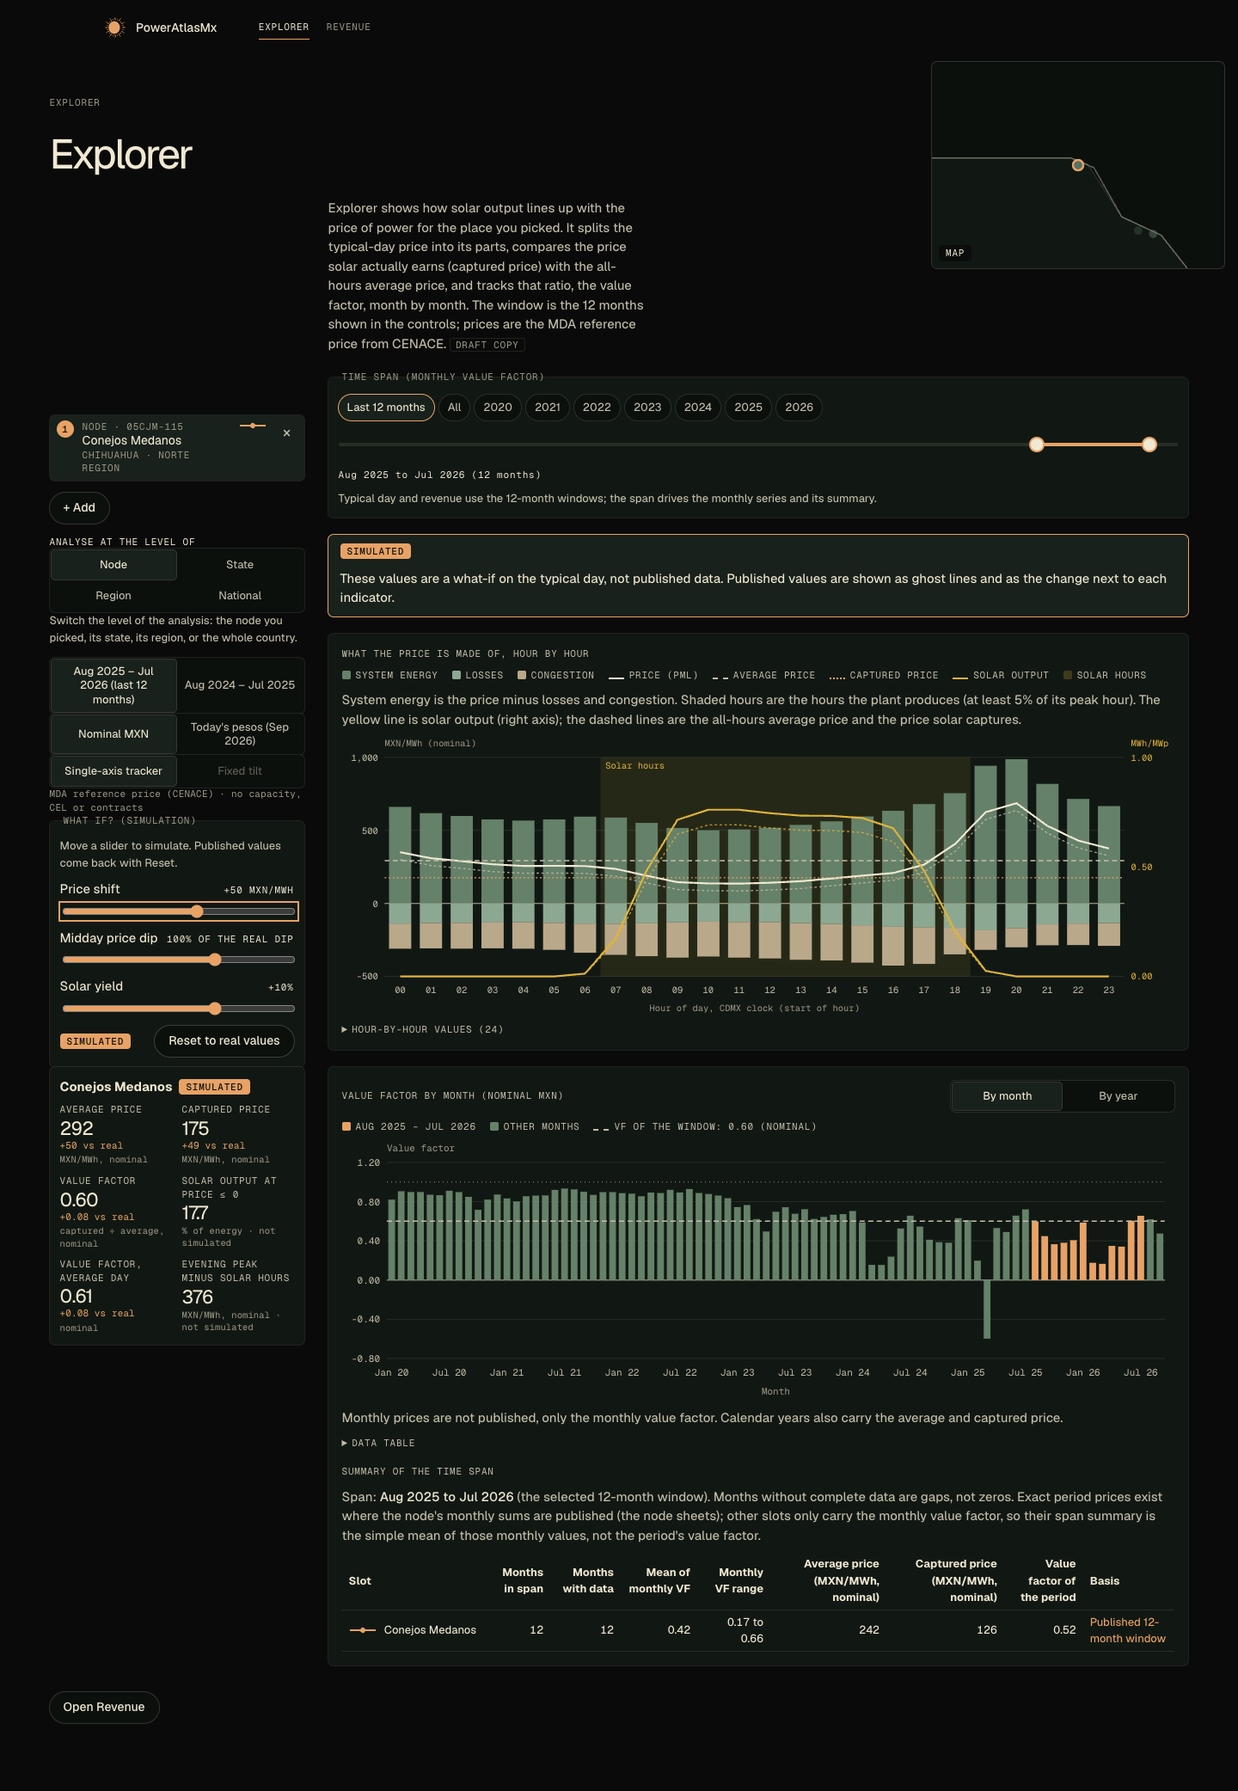
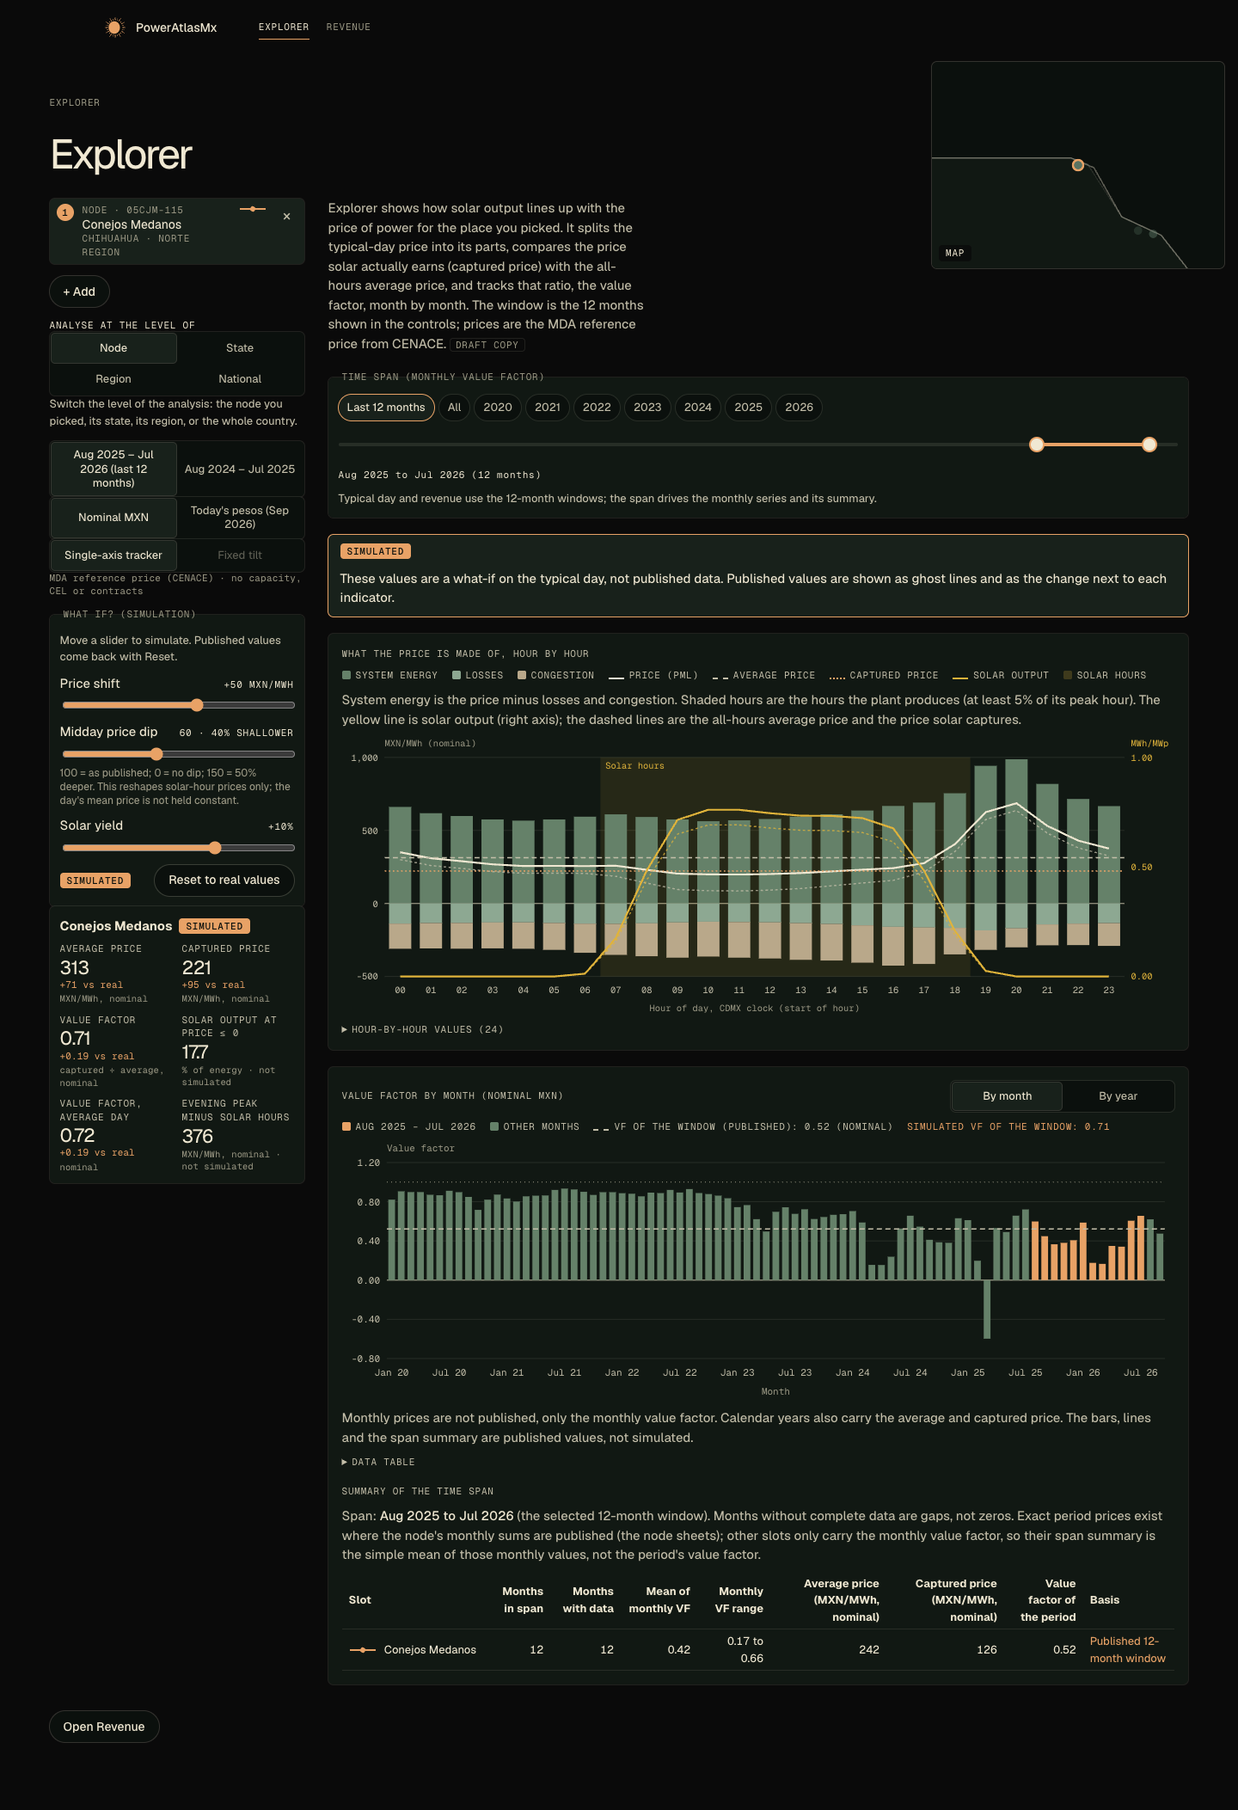
v2: m9 fixes (published labels, n/a under negative prices, dip wording, clamped span, notes)

diff --git a/web/v2/assets/js/series-card.js b/web/v2/assets/js/series-card.js
@@ -8,6 +8,7 @@ import { legendHTML, esc, nameOf } from './compare-ui.js';
 import { segment } from './controls.js';
 import { COPY } from './copy.js';
 import { inSpan } from './span-data.js';
+import { isNeutral } from './query-extras.js';
 
 const SAND = 'var(--s1)', MUTED = 'var(--c-energy)';
 
@@ -25,17 +26,18 @@ export function paintSeries(root, { entries, shell, winId, view, onView }) {
   const ok = entries.filter((e) => e.series);
   segment(q('#sr-view'), [['months', 'By month'], ['years', 'By year']], view, onView);
   q('#sr-title').textContent = view === 'months' ? `Value factor by month${span ? ` (${span.from} to ${span.to})` : ''} (nominal MXN)` : `Value factor, average and captured price by calendar year${real ? " (today's pesos)" : ' (nominal MXN)'}`;
-  q('#sr-note').textContent = COPY.seriesNote;
+  const sim = !isNeutral(shell.store.scenario);
+  q('#sr-note').textContent = COPY.seriesNote + (sim ? ' The bars, lines and the span summary are published values, not simulated.' : '');
   const px = q('#sr-px'); px.hidden = view !== 'years';
   if (!ok.length) { q('#sr-vf').innerHTML = '<p class="xp-text">No series for this selection.</p>'; q('#sr-table').innerHTML = ''; return; }
   const multi = entries.length > 1;
   if (view === 'months') {
     const allMonths = ok[0].series.months, keep = allMonths.map((m) => inSpan(m, span)), months = allMonths.filter((_, i) => keep[i]), every = thin(months.length, chartWidth(q('#sr-vf')), 56, 6);
     if (!multi) {
-      const e = ok[0], pb = priceBasis(e.rec, real);
+      const e = ok[0], pb = priceBasis(e.real || e.rec, real), sb = e.real ? priceBasis(e.rec, real) : null; // the bars are published: so is the line
       const vfs = e.series.vf.filter((_, i) => keep[i]);
       const bars = months.map((m, i) => { const inW = m >= w.desde && m <= w.hasta, v = vfs[i]; return { v, label: mesCorto(m), color: inW ? SAND : MUTED, tip: `${mesCorto(m)}: ${v === null ? 'no data' : num(v, 2)}${inW ? ' (in window)' : ''}` }; });
-      q('#sr-leg').innerHTML = `<span><i style="background:${SAND}"></i>${esc(w.label)}</span><span><i style="background:${MUTED}"></i>Other months</span><span><i class="dash"></i>VF of the window: ${num(pb.vf, 2)}${pb.real ? " (today's pesos)" : ' (nominal)'}</span>`;
+      q('#sr-leg').innerHTML = `<span><i style="background:${SAND}"></i>${esc(w.label)}</span><span><i style="background:${MUTED}"></i>Other months</span><span><i class="dash"></i>VF of the window${sim ? ' (published)' : ''}: ${num(pb.vf, 2)}${pb.real ? " (today's pesos)" : ' (nominal)'}</span>${sb ? `<span class="exact">Simulated VF of the window: ${sb.vf === null ? 'n/a (price ≤ 0)' : num(sb.vf, 2)}</span>` : ''}`;
       renderChart(q('#sr-vf'), () => barChart({ bars, hline: { v: pb.vf, label: `Window ${num(pb.vf, 2)}` }, refs: [1], scale: vfAxis(bars.map((b) => b.v).concat([pb.vf])), H: 300, xEvery: every, aria: 'Value factor by month', ytitle: 'Value factor', xtitle: 'Month' }));
     } else {
       q('#sr-leg').innerHTML = legendHTML(entries, shell);
@@ -47,6 +49,7 @@ export function paintSeries(root, { entries, shell, winId, view, onView }) {
   }
   const ya0 = yearAxis(entries, real), yKeep = ya0.years.map((y) => !span || (`${y}-01` >= span.from && `${y}-12` <= span.to));
   const sel = yKeep.some(Boolean) ? yKeep : ya0.years.map(() => true);
+  if (span && !yKeep.some(Boolean)) q('#sr-note').textContent = `No full calendar year in this span; showing all years. ${q('#sr-note').textContent}`;
   const ya = { years: ya0.years.filter((_, i) => sel[i]), vals: ya0.vals.map((v) => v.filter((_, i) => sel[i])) };
   q('#sr-leg').innerHTML = multi ? legendHTML(entries, shell) : '<span><i style="background:var(--s1)"></i>Value factor</span>';
   const vser = entries.map((e, k) => ({ vals: ya.vals[k], label: nameOf(shell, e) }));

diff --git a/web/v2/assets/js/indicators.js b/web/v2/assets/js/indicators.js
@@ -4,7 +4,7 @@ import { compareRows } from './compare-data.js';
 import { swatchSVG } from './series-style.js';
 import { esc, nameOf, slotNotice } from './compare-ui.js';
 
-const mil = (v) => num(v / 1e6, 2);
+const mil = (v) => (v === null || v === undefined ? '—' : num(v / 1e6, 2));
 
 /** items [label, text, unit] for one ok row. view = 'explorer' | 'revenue'. */
 export function indicatorItems(row, view, real, base = null) {
@@ -14,7 +14,7 @@ export function indicatorItems(row, view, real, base = null) {
     ['Value factor', t.vf.text, `captured ÷ average, ${pesos}`, d(t.vf.value, base && base.tiles.vf.value, 2)]];
   const sim = base ? ' · not simulated' : '';
   const rest = [['Solar output at price ≤ 0', t.z.text, `% of energy${sim}`], ['Value factor, average day', t.vfDay.text, 'nominal', d(t.vfDay.value, base && base.tiles.vfDay.value, 2)]];
-  if (view === 'revenue') return [['Revenue per MWp per year', mil(r.total), `M MXN, ${pesos}`, base ? d(r.total / 1e6, base.rev.total / 1e6, 2) : ''], ['Shortcut overstates by', r.over === null ? '—' : num(r.over, 0), '%', ''], ...prices, ...rest];
+  if (view === 'revenue') return [['Revenue per MWp per year', mil(r.total), `M MXN, ${pesos}`, base && r.total !== null && base.rev.total !== null ? d(r.total / 1e6, base.rev.total / 1e6, 2) : ''], ['Shortcut overstates by', r.over === null ? '—' : num(r.over, 0), '%', ''], ...prices, ...rest];
   return [...prices, ...rest, ['Evening peak minus solar hours', t.spread.text, `MXN/MWh, nominal${sim}`, '']];
 }
 
@@ -22,10 +22,13 @@ export function indicatorsHTML(entries, shell, view) {
   const real = shell.store.real, rows = compareRows(entries, real), multi = entries.length > 1;
   const base = compareRows(entries.map((e) => (e.real ? { ...e, rec: e.real } : e)), real);
   return rows.map((row, k) => {
-    const head = `<div class="ind-head">${multi ? swatchSVG(k) : ''}<b>${esc(nameOf(shell, entries[k]))}</b>${entries[k].real ? '<span class="badge">Simulated</span>' : ''}</div>`;
+    const e = entries[k];
+    const mark = e.noBaseline ? '<span class="badge off">Not simulated (no baseline)</span>' : e.real ? '<span class="badge">Simulated</span>' : '';
+    const head = `<div class="ind-head">${multi ? swatchSVG(k) : ''}<b>${esc(nameOf(shell, e))}</b>${mark}</div>`;
     if (!row.ok) return `<section class="ind">${head}<p class="xp-text">${esc(slotNotice(entries[k]))}</p></section>`;
     const sim = !!entries[k].real;
-    const items = indicatorItems(row, view, real, sim && base[k].ok ? base[k] : null).map(([l, v, u, dl]) => `<div class="ind-item"><span class="mono">${esc(l)}</span><strong>${v}</strong>${dl ? `<span class="mono delta">${esc(dl)} vs real</span>` : ''}<span class="mono u">${esc(u)}</span></div>`).join('');
-    return `<section class="ind">${head}${row.partial ? `<p class="xp-warn-inline">${esc(row.partial)}</p>` : ''}<div class="ind-grid">${items}</div></section>`;
+    const na = e.rec && e.rec.simNA;
+    const items = indicatorItems(row, view, real, sim && base[k].ok ? base[k] : null).map(([l, v, u, dl]) => (na && v === '—' ? [l, 'n/a', 'price ≤ 0 under this scenario', ''] : [l, v, u, dl])).map(([l, v, u, dl]) => `<div class="ind-item"><span class="mono">${esc(l)}</span><strong>${v}</strong>${dl ? `<span class="mono delta">${esc(dl)} vs real</span>` : ''}<span class="mono u">${esc(u)}</span></div>`).join('');
+    return `<section class="ind">${head}${row.partial ? `<p class="xp-warn-inline">${esc(row.partial)}</p>` : ''}${na ? '<p class="xp-text">Prices are shown, and are zero or negative under this scenario; the value factor and revenue are not meaningful.</p>' : ''}<div class="ind-grid">${items}</div></section>`;
   }).join('');
 }

diff --git a/web/v2/assets/js/scenario-panel.js b/web/v2/assets/js/scenario-panel.js
@@ -4,7 +4,9 @@ import { announce } from './live.js';
 
 const DEFS = [
   { k: 'price', label: 'Price shift', unit: 'MXN/MWh', step: 10, show: (v) => `${v > 0 ? '+' : v < 0 ? '−' : ''}${Math.abs(v)} MXN/MWh`, text: (v) => (v === 0 ? 'no shift' : `${v > 0 ? 'plus' : 'minus'} ${Math.abs(v)} pesos per megawatt hour`) },
-  { k: 'dip', label: 'Midday price dip', unit: '% of today\'s dip', step: 5, show: (v) => `${v}% of the real dip`, text: (v) => `${v} percent of the real midday dip` },
+  { k: 'dip', label: 'Midday price dip', unit: '', step: 5, show: (v) => (v === 100 ? '100 · as published' : v === 0 ? '0 · no dip' : v > 100 ? `${v} · ${v - 100}% deeper` : `${v} · ${100 - v}% shallower`),
+    text: (v) => (v === 100 ? 'as published' : v === 0 ? 'no dip' : v > 100 ? `${v - 100} percent deeper than published` : `${100 - v} percent shallower than published`),
+    help: '100 = as published; 0 = no dip; 150 = 50% deeper. This reshapes solar-hour prices only; the day\'s mean price is not held constant.' },
   { k: 'yield', label: 'Solar yield', unit: '%', step: 1, show: (v) => `${v > 0 ? '+' : v < 0 ? '−' : ''}${Math.abs(v)}%`, text: (v) => (v === 0 ? 'as modelled' : `${v > 0 ? 'plus' : 'minus'} ${Math.abs(v)} percent`) },
 ];
 
@@ -13,7 +15,7 @@ export function mountScenarioPanel(el, store) {
   el.innerHTML = `<fieldset class="scn"><legend class="mono">What if? (simulation)</legend>
     <p class="hint">Move a slider to simulate. Published values come back with Reset.</p>
     ${DEFS.map((d) => `<label class="scn-row" for="sc-${d.k}"><span>${d.label}</span><output id="o-${d.k}" class="mono"></output>
-      <input type="range" id="sc-${d.k}" min="${SCENARIO_LIMITS[d.k][0]}" max="${SCENARIO_LIMITS[d.k][1]}" step="${d.step}"></label>`).join('')}
+      <input type="range" id="sc-${d.k}" min="${SCENARIO_LIMITS[d.k][0]}" max="${SCENARIO_LIMITS[d.k][1]}" step="${d.step}"${d.help ? ` aria-describedby="sc-${d.k}-help"` : ''}>${d.help ? `<small class="scn-help" id="sc-${d.k}-help">${d.help}</small>` : ''}</label>`).join('')}
     <div class="scn-actions"><span class="badge" id="scn-badge" hidden>Simulated</span><button type="button" class="btn btn-ghost btn-sm" id="scn-reset">Reset to real values</button></div>
     <p class="sr" id="scn-live" role="status" aria-live="polite"></p></fieldset>`;
   const q = (s) => el.querySelector(s), live = q('#scn-live');

diff --git a/web/v2/assets/js/revenue.js b/web/v2/assets/js/revenue.js
@@ -1,5 +1,6 @@
 // Revenue: PML decomposition by hour (same as Explorer), production x price by hour, revenue per MWp per year, series, comparison table.
 import { mountView } from './view-base.js';
+import { isNeutral } from './query-extras.js';
 import { decompSectionHTML, drawDecomp } from './decomposition.js';
 import { seriesCardHTML, paintSeries } from './series-card.js';
 import { compareRows, columnLabels } from './compare-data.js';
@@ -8,7 +9,7 @@ import { num } from '../../../assets/js/format.js';
 import { pairChart, lineChart, renderChart } from './svg-charts.js';
 import { tableHTML, esc, legendHTML, nameOf } from './compare-ui.js';
 
-const mil = (v) => num(v / 1e6, 2);
+const mil = (v) => (v === null || v === undefined ? 'n/a' : num(v / 1e6, 2));
 const hh = (i) => String(i).padStart(2, '0');
 
 function revenueCardHTML(entries) {
@@ -26,9 +27,9 @@ export function mountRevenue(host, { shell, side }) {
       mainHTML: ({ entries }) => `${decompSectionHTML(entries, shell)}${revenueCardHTML(entries)}${seriesCardHTML()}${entries.length > 1 ? '<section class="xp-card" id="cmp-table"></section>' : ''}`,
       draw(root, { entries, winId, real, w }, { repaint }) {
         drawDecomp(root, entries);
-        const rows = compareRows(entries, real), L = columnLabels(real), pesos = real ? "today's pesos" : 'nominal';
+        const rows = compareRows(entries, real), L = columnLabels(real, !isNeutral(shell.store.scenario)), pesos = real ? "today's pesos" : 'nominal';
         const realRows = compareRows(entries.map((e) => (e.real ? { ...e, rec: e.real } : e)), real);
-        const gapText = (r) => (r.rev.gap === null ? '' : ` Typical day × 365 is ${num(Math.abs(r.rev.gap), 1)}% ${r.rev.gap >= 0 ? 'above' : 'below'} the published yearly revenue (nominal).`);
+        const gapText = (r) => (r.rev.gap === null || r.rev.total === null ? '' : ` Typical day × 365 is ${num(Math.abs(r.rev.gap), 1)}% ${r.rev.gap >= 0 ? 'above' : 'below'} the published yearly revenue (nominal).`);
         const labels = Array.from({ length: 24 }, (_, i) => hh(i));
         const hours = root.querySelector('#rv-hours');
         if (entries.length === 1) {

diff --git a/web/v2/assets/js/scenario.js b/web/v2/assets/js/scenario.js
@@ -45,10 +45,17 @@ export function scenarioRatios(hours, sc) {
 
 /** record with the scenario applied (same shape as explorer-data records). Returns the same object when neutral. */
 export function scenarioRecord(rec, sc) {
-  if (!rec || rec.missing || isNeutral(sc) || !rec.hours) return { rec, ratios: scenarioRatios(null, null) };
+  if (!rec || rec.missing || isNeutral(sc)) return { rec, ratios: scenarioRatios(null, null) };
+  if (!rec.hours) return { rec, ratios: { rB: 1, rC: 1, rVF: 1, rS: 1, yieldK: 1, ok: false } }; // no hourly profile: nothing to simulate
   const r = scenarioRatios(rec.hours, sc);
   if (!r.ok) return { rec, ratios: r };
   const mul = (v, k) => (v === null || v === undefined ? v : v * k);
+  // a price that is zero or negative under the scenario makes the ratios (VF, revenue) meaningless: keep the prices, drop the rest
+  if (!(rec.base * r.rB > 0) || !(rec.cap * r.rC > 0)) {
+    return { rec: { ...rec, simulated: true, simNA: 'n/a: price ≤ 0 under this scenario', hours: applyScenario(rec.hours, sc),
+      base: mul(rec.base, r.rB), baseReal: mul(rec.baseReal, r.rB), cap: mul(rec.cap, r.rC), capReal: mul(rec.capReal, r.rC),
+      vf: null, vfDay: null, ingreso: null, ingresoReal: null, atajo: null, yf: mul(rec.yf, r.yieldK) }, ratios: { ...r, na: true } };
+  }
   const out = {
     ...rec, simulated: true, hours: applyScenario(rec.hours, sc),
     base: mul(rec.base, r.rB), baseReal: mul(rec.baseReal, r.rB), cap: mul(rec.cap, r.rC), capReal: mul(rec.capReal, r.rC),
@@ -65,6 +72,7 @@ export function scenarioEntries(entries, sc) {
   return entries.map((e) => {
     if (e.error || e.missing || !e.rec) return e;
     const { rec, ratios } = scenarioRecord(e.rec, sc);
-    return rec === e.rec ? e : { ...e, rec, real: e.rec, ratios };
+    if (rec === e.rec) return { ...e, noBaseline: !ratios.ok }; // shown as published, and said so
+    return { ...e, rec, real: e.rec, ratios };
   });
 }

diff --git a/web/v2/assets/js/explorer.js b/web/v2/assets/js/explorer.js
@@ -1,6 +1,7 @@
 // Explorer: PML decomposition by hour (prominent), value factor over time (month / year), comparison table for several slots.
 import { WIN } from '../../../assets/js/names.js';
 import { mountView } from './view-base.js';
+import { isNeutral } from './query-extras.js';
 import { decompSectionHTML, drawDecomp } from './decomposition.js';
 import { seriesCardHTML, paintSeries } from './series-card.js';
 import { compareRows } from './compare-data.js';
@@ -17,7 +18,7 @@ export function mountExplorer(host, { shell, side }) {
         drawDecomp(root, entries);
         paintSeries(root, { entries, shell, winId, view: seriesView, onView: (v) => { seriesView = v; repaint(); } });
         if (entries.length > 1) {
-          const L = columnLabels(real), rows = compareRows(entries, real);
+          const L = columnLabels(real, !isNeutral(shell.store.scenario)), rows = compareRows(entries, real);
           const cols = [{ h: L.base, get: (r) => r.tiles.base.text }, { h: L.cap, get: (r) => r.tiles.cap.text }, { h: L.vf, get: (r) => r.tiles.vf.text }, { h: L.z, get: (r) => r.tiles.z.text }, { h: L.vfDay, get: (r) => r.tiles.vfDay.text }];
           root.querySelector('#cmp-table').innerHTML = `<h2 class="mono">${esc(L.heading(w.label))}</h2>${tableHTML(rows, entries, shell, cols)}`;
         }

diff --git a/web/v2/assets/js/route-logic.js b/web/v2/assets/js/route-logic.js
@@ -26,7 +26,7 @@ export function resolveHash(hash, valid = null, current = [], currentReal = fals
   // span and scenario follow the same rule as the basis: explicit entry -> exactly what the URL says; bare hash -> inherit
   const cur = currentExtras || {};
   const inherit = path === '/' || !raw;
-  const span = path === '/' ? cur.span || null : params.has('from') || params.has('to') ? parseSpan(params.get('from'), params.get('to')) : inherit ? cur.span || null : null;
+  const span = path === '/' ? cur.span || null : params.has('from') || params.has('to') ? parseSpan(params.get('from'), params.get('to'), valid && valid.months) : inherit ? cur.span || null : null;
   const sc = path === '/' ? cur.sc || null : params.has('sc') ? parseScenario(params.get('sc')) : inherit ? cur.sc || null : null;
   return { path, list, real, span, sc, hadSel: !!raw, hash: hrefFor(path, list, real, { span, sc }) };
 }

diff --git a/web/v2/assets/js/compare-data.js b/web/v2/assets/js/compare-data.js
@@ -40,12 +40,12 @@ export function yearAxis(entries, real = false) {
 }
 
 /** table column headings per price basis (average/captured/VF follow the toggle; spread, <= 0 share and average-day VF are nominal figures). */
-export function columnLabels(real) {
+export function columnLabels(real, sim = false) {
   const b = real ? "today's pesos" : 'nominal';
   return {
     heading: (win) => `Comparison, ${win} · prices in ${b}`,
     base: `Average price, MXN/MWh (${b})`, cap: `Captured price, MXN/MWh (${b})`, vf: `Value factor (${b})`,
-    z: 'Output at price ≤ 0, % of energy', vfDay: 'VF, average day (nominal)',
+    z: `Output at price ≤ 0, % of energy${sim ? ' (not simulated)' : ''}`, vfDay: 'VF, average day (nominal)',
     revenue: `Revenue per MWp per year, M MXN (${b})`, shortcut: `Shortcut, M MXN (${b})`, over: 'Shortcut overstates, %',
   };
 }

diff --git a/web/v2/assets/js/query-extras.js b/web/v2/assets/js/query-extras.js
@@ -4,9 +4,12 @@ export const NEUTRAL = Object.freeze({ price: 0, dip: 100, yield: 0 });
 const YM = /^\d{4}-(0[1-9]|1[0-2])$/;
 const clamp = (v, [lo, hi]) => Math.min(hi, Math.max(lo, v));
 
-export function parseSpan(from, to) {
+/** bounds = {min, max} (available months) clamps both ends; a span entirely outside the data is dropped. */
+export function parseSpan(from, to, bounds = null) {
   if (!YM.test(from || '') || !YM.test(to || '') || from > to) return null;
-  return { from, to };
+  if (!bounds) return { from, to };
+  const f = from < bounds.min ? bounds.min : from, t = to > bounds.max ? bounds.max : to;
+  return f > t ? null : { from: f, to: t };
 }
 export const spanEquals = (a, b) => (!a && !b) || (!!a && !!b && a.from === b.from && a.to === b.to);
 

diff --git a/web/v2/assets/js/explorer-data.js b/web/v2/assets/js/explorer-data.js
@@ -58,7 +58,7 @@ export function yearRows(series, real = false) {
 /** price basis of a record: nominal MXN or today's pesos. VF in real pesos is captured / average of the real figures (as v1). */
 export function priceBasis(rec, real) {
   const r = real && rec.baseReal != null && rec.capReal != null;
-  return { base: r ? rec.baseReal : rec.base, cap: r ? rec.capReal : rec.cap, vf: r ? rec.capReal / rec.baseReal : rec.vf, real: r };
+  return { base: r ? rec.baseReal : rec.base, cap: r ? rec.capReal : rec.cap, vf: rec.simNA ? null : r ? rec.capReal / rec.baseReal : rec.vf, real: r };
 }
 
 /** headline tiles, in display order. Values are formatted exactly as shown. Spread, "<= 0" share and VF of the average day are nominal figures. */

diff --git a/web/v2/assets/js/atlas.js b/web/v2/assets/js/atlas.js
@@ -34,7 +34,8 @@ export function buildAtlas(index, analysis) {
     nodes.push({ id: n.id, name: n.nombre, state: n.entidad, region: n.region, muni: n.municipio, lon: n.lon, lat: n.lat,
       pml: null, pcap: null, vf: null, rank: null, rankN: null, has: false });
   }
-  return { nodes, config: analysis.config, analysisCount: analysis.ids.length, pesosBase: (index.pesos_reales && index.pesos_reales.base_mes) || null };
+  return { nodes, config: analysis.config, analysisCount: analysis.ids.length, pesosBase: (index.pesos_reales && index.pesos_reales.base_mes) || null,
+    months: index.periodo_datos ? { min: index.periodo_datos.desde, max: index.periodo_datos.hasta } : null };
 }
 
 let cache = null;

diff --git a/web/v2/main.js b/web/v2/main.js
@@ -87,7 +87,7 @@ const router = createRouter({
     const ids = new Set(sh.atlas.nodes.map((n) => n.id));
     const st = new Set(sh.geo.states.features.map((f) => f.properties.key));
     const rg = new Set(sh.geo.regions.features.map((f) => f.properties.key));
-    return { node: (id) => ids.has(id), state: (k) => st.has(k), region: (k) => rg.has(k) };
+    return { node: (id) => ids.has(id), state: (k) => st.has(k), region: (k) => rg.has(k), months: sh.atlas.months || null };
   },
   replace: (h) => history.replaceState(null, '', h),
   currentHash: () => location.hash,
